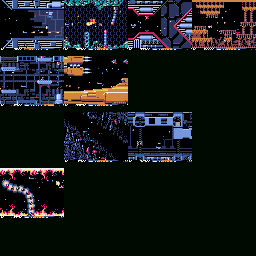
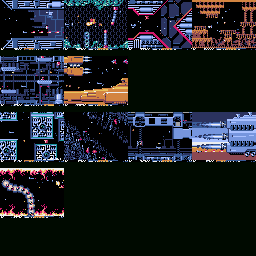
ステージ選択

Changed region(s): [[0.75, 0.4375, 1.0, 0.6562], [0.0, 0.4375, 0.25, 0.6562]]

diff --git a/source/stage.py b/source/stage.py
@@ -61,7 +61,7 @@ class StageLinkManager:
         stage4A = StageInfo("4A", 4, True, [stage5A, stage5B])
         stage4A.setImage(3, 0)
         stage4B = StageInfo("4B", 4, True, [stage5A, stage5B])
-        stage4B.setImage(3, 2)
+        stage4B.setImage(0, 2)
         # stage4C = StageInfo("4C", 4, False, [stage5C, stage5D])
         # stage4D = StageInfo("4D", 4, False, [stage5D, stage5E])
 
@@ -70,7 +70,7 @@ class StageLinkManager:
         stage3B = StageInfo("3B", 3, True, [stage4A, stage4B])
         stage3B.setImage(2, 2)
         stage3C = StageInfo("3C", 3, True, [stage4A, stage4B])
-        stage3C.setImage(2, 2)
+        stage3C.setImage(3, 2)
 
         stage2A = StageInfo("2A", 2, True, [stage3A, stage3B, stage3C])
         stage2A.setImage(1, 0)

diff --git a/source/graslay.py b/source/graslay.py
@@ -552,7 +552,7 @@ class MainGame:
 		#pyxel.text(160, 188, str(self.event_pos),7)
 		#pyxel.text(120, 194, str(gcommon.getMapData(ObjMgr.myShip.x, ObjMgr.myShip.y)), 7)
 		# マップ位置表示
-		pyxel.text(200, 184, str(gcommon.map_x) + " " +str(gcommon.map_y), 7)
+		#pyxel.text(200, 184, str(gcommon.map_x) + " " +str(gcommon.map_y), 7)
 
 		if self.pauseMode == gcommon.PAUSE_PAUSE:
 			self.drawPauseMenu()
